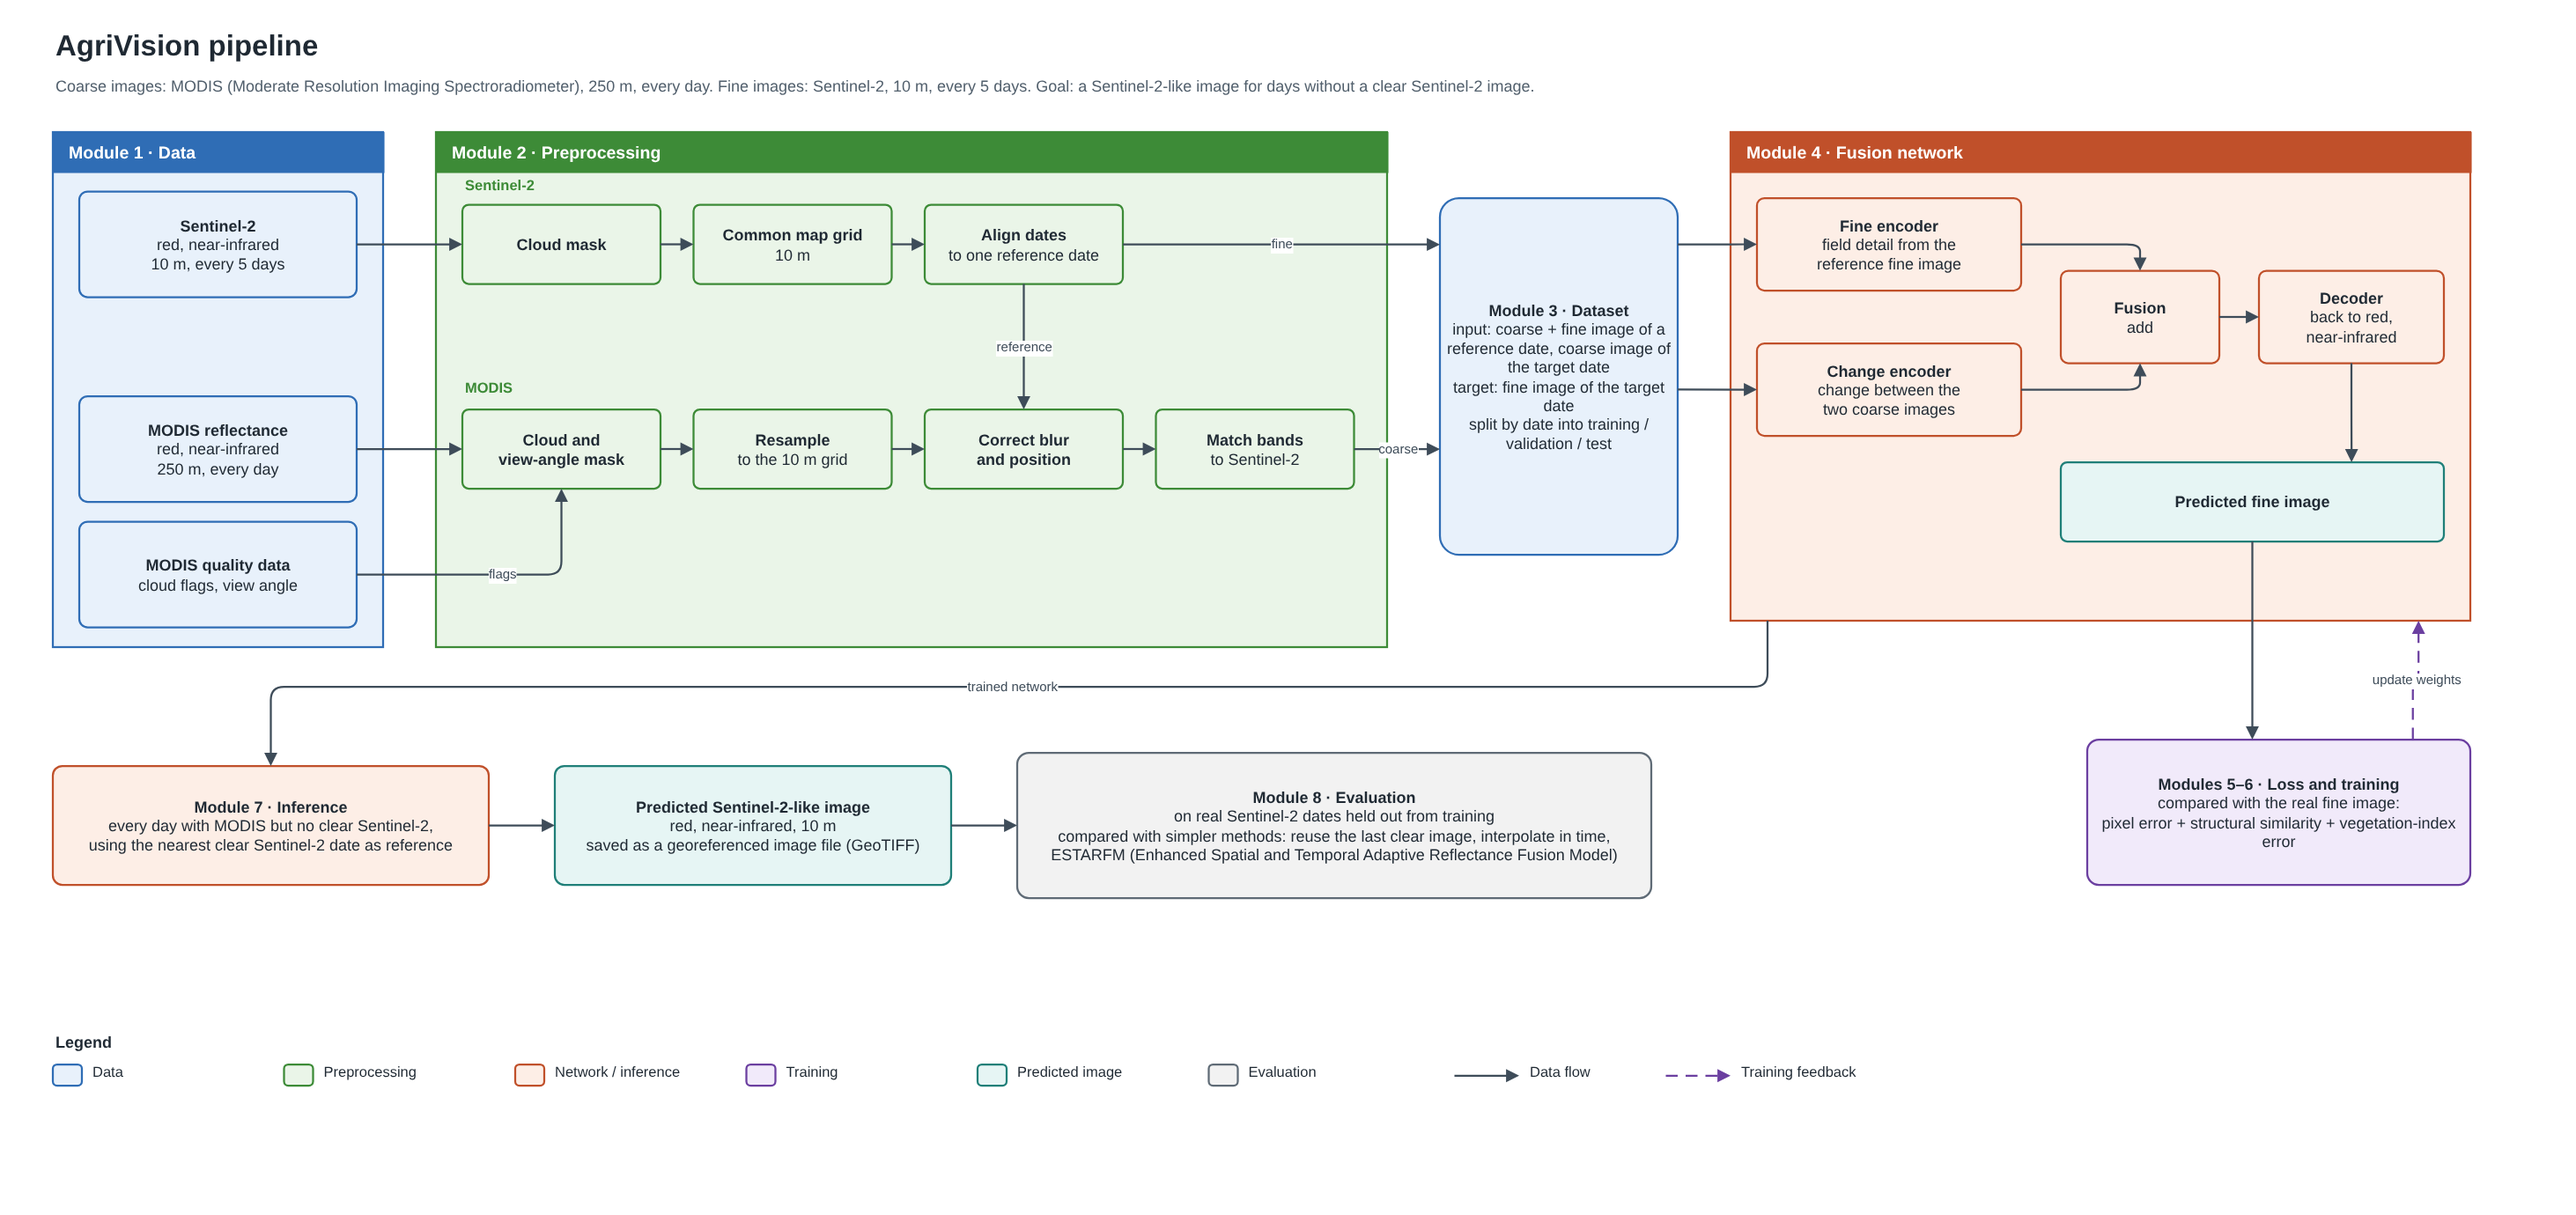
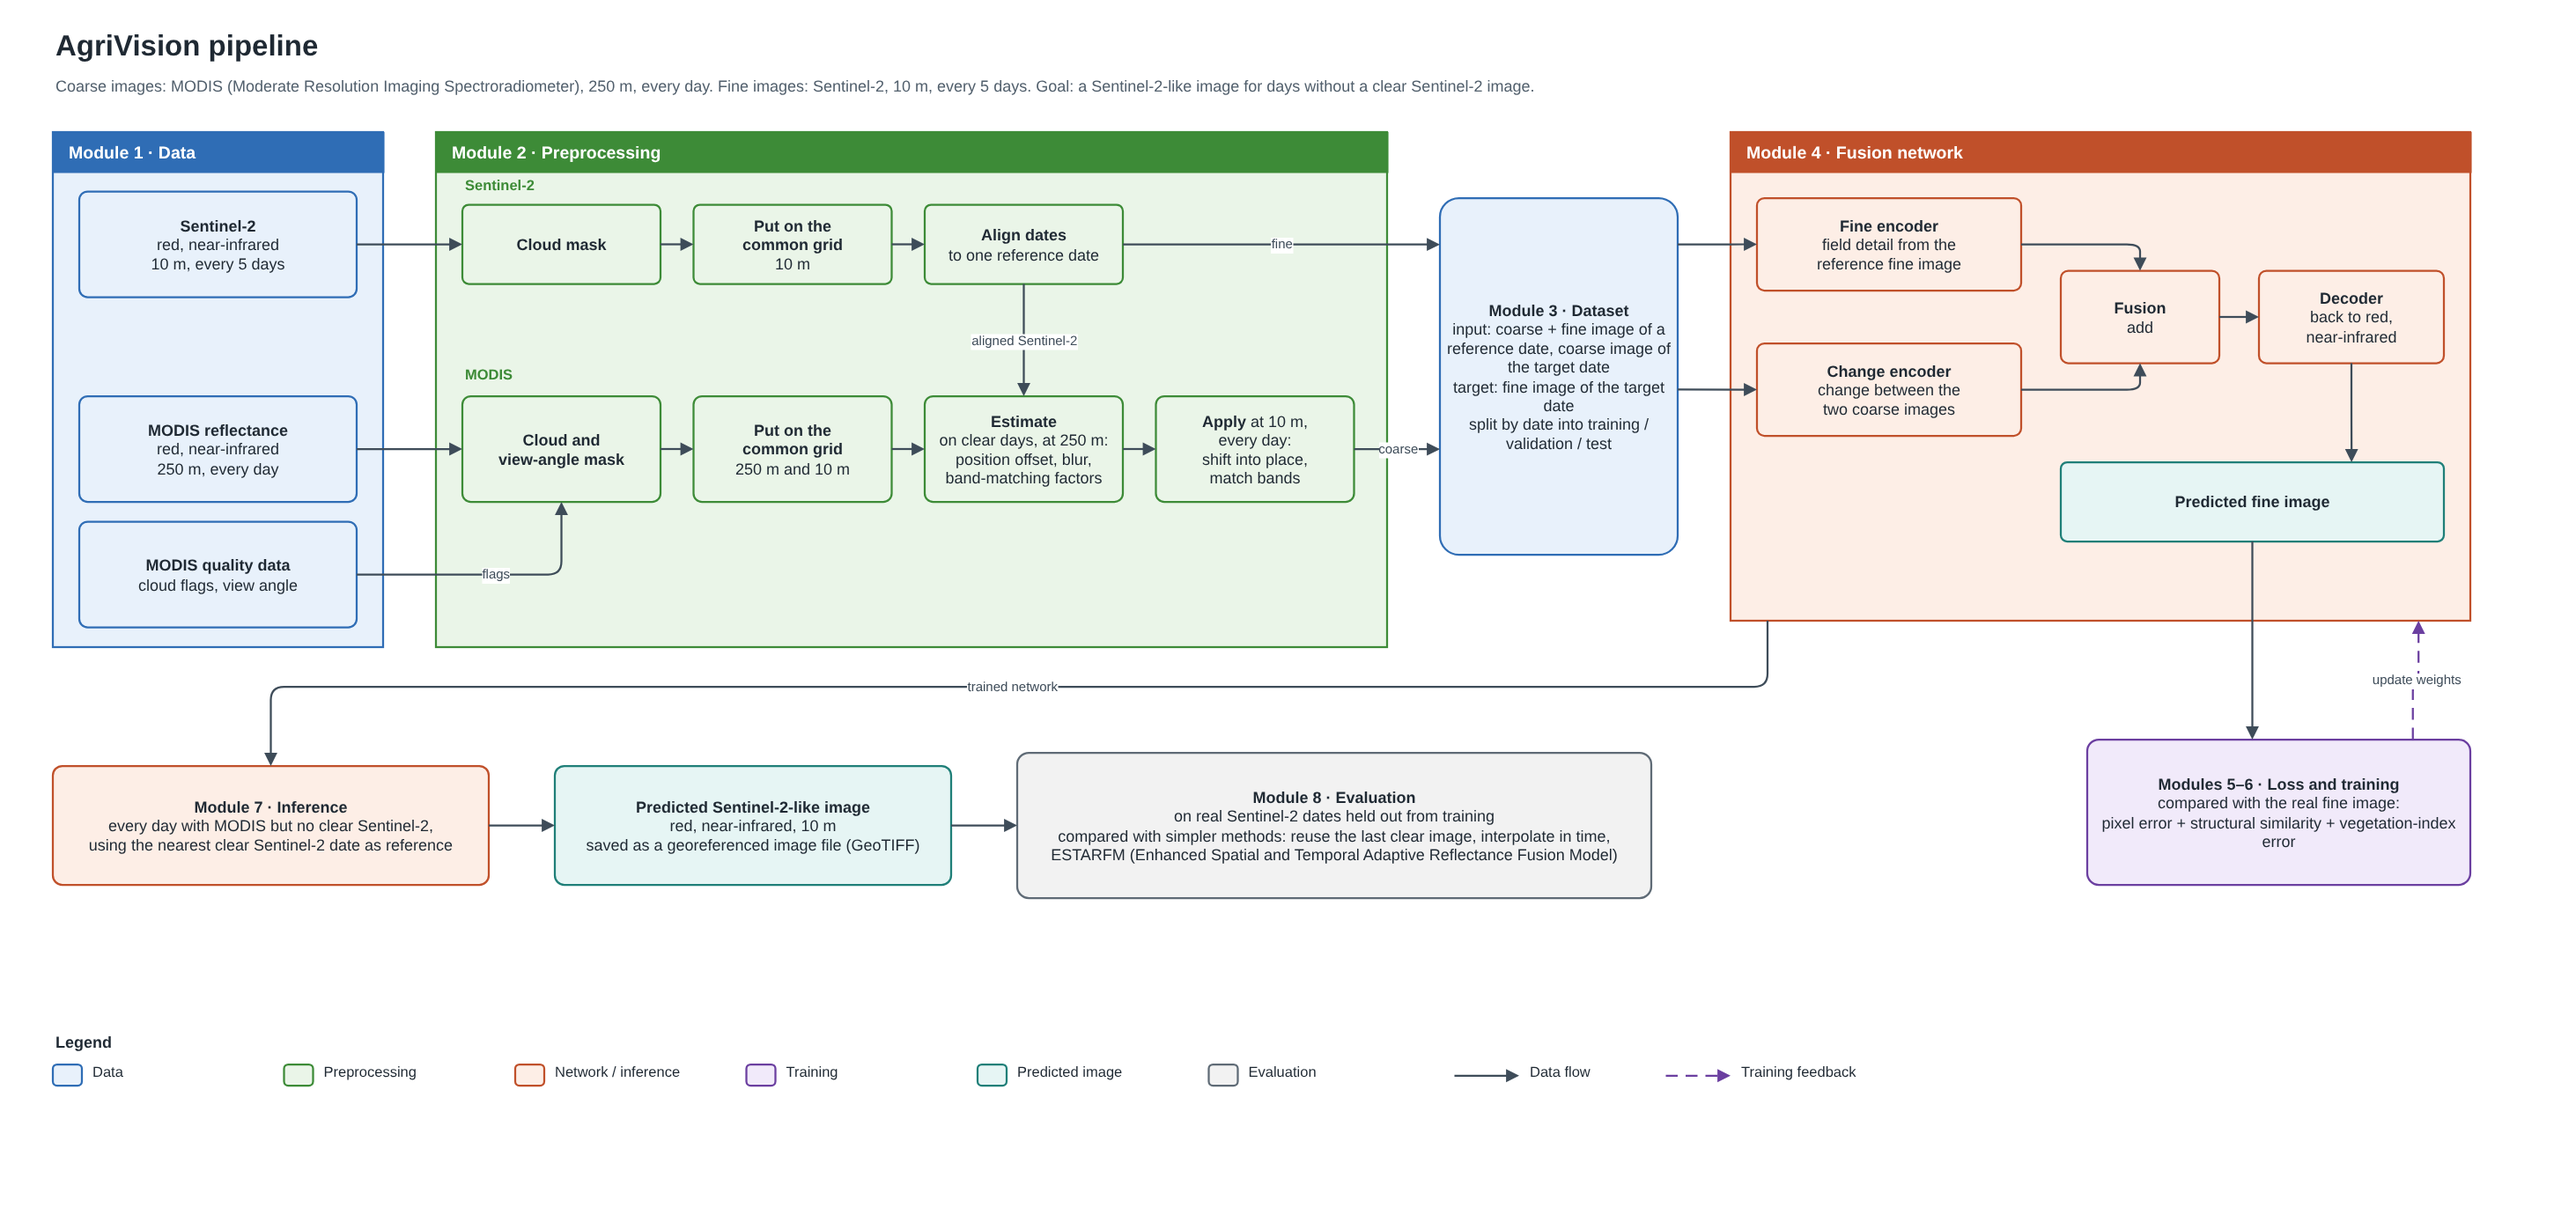
Fix preprocessing description in diagram and guide
The blur is only measured (to degrade Sentinel-2 for band matching),
never removed from MODIS. Show MODIS preprocessing as estimate (on
clear days, at 250 m) then apply (every day, at 10 m). Put
co-registration before the offset estimate in the guide, which needs
aligned Sentinel-2, and renumber the steps.

Claude-Session: https://claude.ai/code/session_01EnkEphDfBFfvDAs5Czkog1

Changed region(s): [[0.1867, 0.2804, 0.5289, 0.4051], [0.28, 0.187, 0.3422, 0.2181]]

diff --git a/docs/fusion_model_modules.md b/docs/fusion_model_modules.md
@@ -113,7 +113,7 @@ and save a checkpoint every epoch.
     day to day. Sentinel-2's is ~10 m or better.
 
   So: export on the common grid for convenience, filter out large view angles, then **measure** the
-  PSF and offset per date in M2 (2b′) rather than assuming them.
+  PSF and offset per date in M2 (2d) rather than assuming them.
 
 ```python
 AOI   = ee.Geometry.Rectangle([73.00, 31.30, 73.20, 31.45])   # your fields (lon/lat)
@@ -170,10 +170,10 @@ Keep a `catalog.csv` with columns `date, sensor, path, clear_fraction`. Every la
 |---|---|---|
 | **2a Cloud and shadow mask** | One cloudy pixel in `F1` or `C2` teaches the network nonsense | S2: Cloud Score+ `cs_cdf ≥ 0.6–0.65`, then dilate the mask ~3 px. MODIS: `state_1km` QA |
 | **2b Reproject / resample** | The network needs `C` and `F` on the same grid | Export as above, then bilinear-upsample MODIS to the 10 m grid |
-| **2b′ PSF and offset estimation** | A MODIS cell is neither a 25×25 box nor exactly where its coordinates say. Assuming it is biases the band adjustment and teaches the network false "change" | Per clear same-day pair, grid-search the Gaussian PSF width and the (dy, dx) offset that make degraded S2 best match MODIS (`fit_psf_and_shift` below). Shift that day's MODIS by (−dy, −dx) |
-| **2c Co-registration** | Even a 1-pixel S2 shift between dates creates false "change" at field edges | AROSICS `COREG_LOCAL` of every S2 date against one master date |
-| **2d Spectral band adjustment** | MODIS b1/b2 and S2 B4/B8 have different spectral response, so NDVI from each is biased | Per band, regress S2 degraded with the fitted PSF and offset on MODIS, for clear same-day pairs (`F_deg = a·C + b`). Then apply `a, b` to every MODIS image |
-| **2e Normalisation** | Stable training | Reflectance is already 0–1. Clip to `[0, 1]`; optionally divide each band by its 99th percentile |
+| **2c Co-registration** (before 2d, which needs aligned S2) | Even a 1-pixel S2 shift between dates creates false "change" at field edges | AROSICS `COREG_LOCAL` of every S2 date against one master date |
+| **2d PSF and offset estimation** | A MODIS cell is neither a 25×25 box nor exactly where its coordinates say. Assuming it is biases the band adjustment and teaches the network false "change" | **Estimate** (clear same-day pairs, at 250 m): grid-search the Gaussian PSF width and the (dy, dx) offset that make degraded S2 best match MODIS (`fit_psf_and_shift` below). **Apply** (every day, at 10 m): shift MODIS by (−dy, −dx). The blur is only measured, to degrade S2 for 2e; it is never removed from MODIS. Days without a clear S2 image get the median offset of nearby fitted days, which fixes MODIS's systematic position error but not its day-to-day wobble |
+| **2e Spectral band adjustment** | MODIS b1/b2 and S2 B4/B8 have different spectral response, so NDVI from each is biased | Per band, regress S2 degraded with the fitted PSF and offset on MODIS, for clear same-day pairs (`F_deg = a·C + b`). Then apply `a, b` to every MODIS image |
+| **2f Normalisation** | Stable training | Reflectance is already 0–1. Clip to `[0, 1]`; optionally divide each band by its 99th percentile |
 
 ```python
 import numpy as np, rasterio
